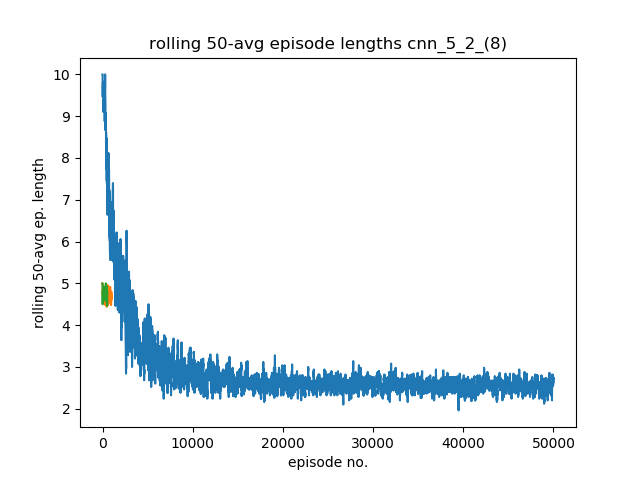
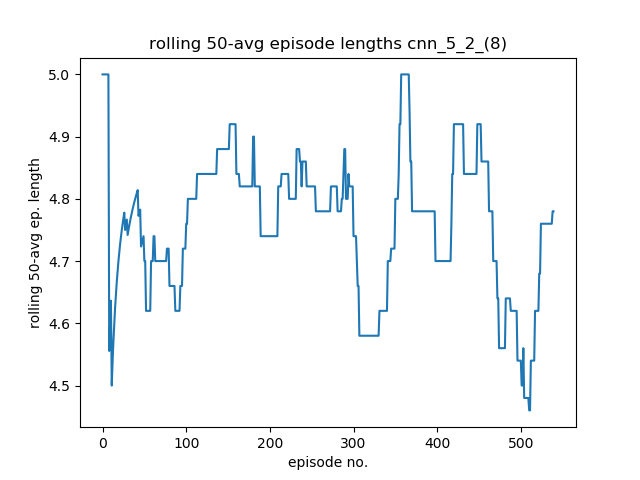
update plots, make_plots.py

diff --git a/dqn/data/make_plots.py b/dqn/data/make_plots.py
@@ -6,12 +6,13 @@ from matplotlib import pyplot as plt
 import pickle
 
 def save_plot(env_name, save_path):
-    print(env_name)
+    print('Plotting {}'.format(env_name))
     with open('data/' + env_name + '.pkl','rb') as f:
         data = pickle.load(f)
         data = data['DQN_HER'] # only one agent 
         data = data[0] # only one run for this agent
         ep_lens, avg_ep_lens, _, _, secs_taken = data
+        plt.clf()
         plt.plot(avg_ep_lens)
         plt.title('rolling 50-avg episode lengths ' + env_name)
         plt.xlabel('episode no.')
@@ -21,14 +22,12 @@ def save_plot(env_name, save_path):
 path = 'data/'
 files = [f for f in listdir(path) if isfile(join(path, f))]
 
+plots = []
 for file in files:
     env_name = file[:-4]
     plot_file = 'plots/' + env_name + '.png'
-    plots = []
     if not isfile(plot_file):
         save_plot(env_name, plot_file)
         plots.append(env_name)
 
 print('Made {} plots.'.format(len(plots)))
-if len(plots) > 0:
-    print(' ,'.join(plots))
